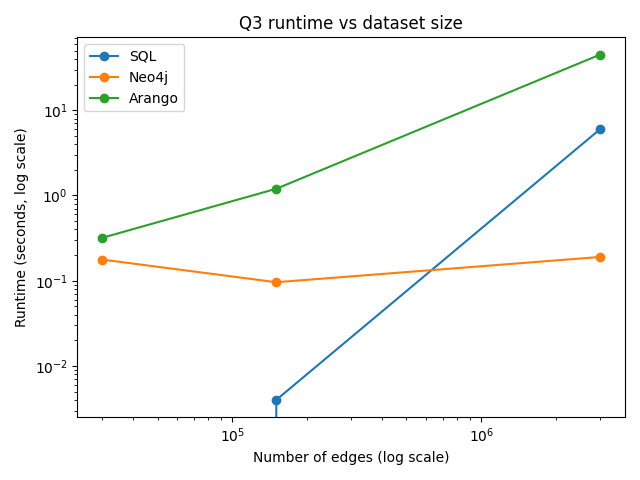
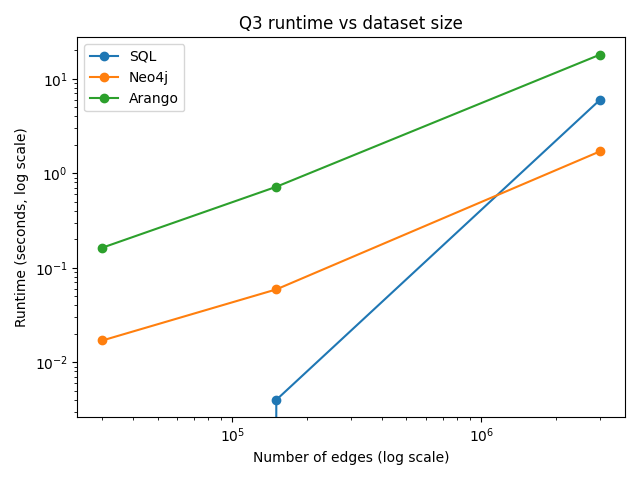
corrected results oupsie + figures

diff --git a/src/tools/ploter_queries.py b/src/tools/ploter_queries.py
@@ -27,33 +27,33 @@ def to_seconds(values):
 queries = {
     "Q1": {
         "SQL": to_seconds(["7.15 s", "105 s", "5 h"]),
-        "Neo4j": to_seconds(["12 ms", "32 ms", "640 ms"]),
-        "Arango": to_seconds(["232 ms", "673 ms", "25.9 s"]),
+        "Neo4j": to_seconds(["4 ms", "11 ms", "193 ms"]),
+        "Arango": to_seconds(["131 ms", "461 ms", "13.4 s"]),
     },
     "Q2": {
         "SQL": to_seconds(["67.5 s", "1877 s", "10 d"]),
-        "Neo4j": to_seconds(["76 ms", "177 ms", "350 ms"]),
-        "Arango": to_seconds(["469 ms", "1.1 s", "56 s"]),
+        "Neo4j": to_seconds(["44 ms", "144 ms", "3473 ms"]),
+        "Arango": to_seconds(["283 ms", "774 ms", "29 s"]),
     },
     "Q3": {
         "SQL": to_seconds(["0 ms", "4 ms", "6.0 s"]),
-        "Neo4j": to_seconds(["177 ms", "96 ms", "190 ms"]),
-        "Arango": to_seconds(["319 ms", "1.2 s", "45 s"]),
+        "Neo4j": to_seconds(["17 ms", "59 ms", "1706 ms"]),
+        "Arango": to_seconds(["163 ms", "719 ms", "18 s"]),
     },
     "Q4": {
         "SQL": to_seconds(["0 ms", "0 ms", "3 ms"]),
-        "Neo4j": to_seconds(["14 ms", "19 ms", "380 ms"]),
-        "Arango": to_seconds(["1.4 ms", "3.5 ms", "100 ms"]),
+        "Neo4j": to_seconds(["3 ms", "5 ms", "85 ms"]),
+        "Arango": to_seconds(["1.4 ms", "3.2 ms", "105 ms"]),
     },
     "Q5": {
         "SQL": to_seconds(["120 ms", "250 ms", "286 h"]),
-        "Neo4j": to_seconds(["120 ms", "600 ms", "12 s"]),
-        "Arango": to_seconds(["354 ms", "1.37 s", "58 s"]),
+        "Neo4j": to_seconds(["120 ms", "600 ms", "445 s"]),
+        "Arango": to_seconds(["190 ms", "663 ms", "18 s"]),
     },
     "Q6": {
         "SQL": to_seconds(["15 ms", "40 ms", "60 s"]),
-        "Neo4j": to_seconds(["37 ms", "77 ms", "150 ms"]),
-        "Arango": to_seconds(["7.6 ms", "9.5 ms", "314 ms"]),
+        "Neo4j": to_seconds(["5 ms", "11 ms", "469 ms"]),
+        "Arango": to_seconds(["2.89 ms", "6.23 ms", "215.6 ms"]),
     },
 }
 
@@ -63,7 +63,7 @@ for q, data in queries.items():
         plt.plot(sizes, vals, marker='o', label=db)
     plt.xscale('log')
     plt.yscale('log')
-    plt.xlabel("Number of nodes (log scale)")
+    plt.xlabel("Number of edges (log scale)")
     plt.ylabel("Runtime (seconds, log scale)")
     plt.title(f"{q} runtime vs dataset size")
     plt.legend()
